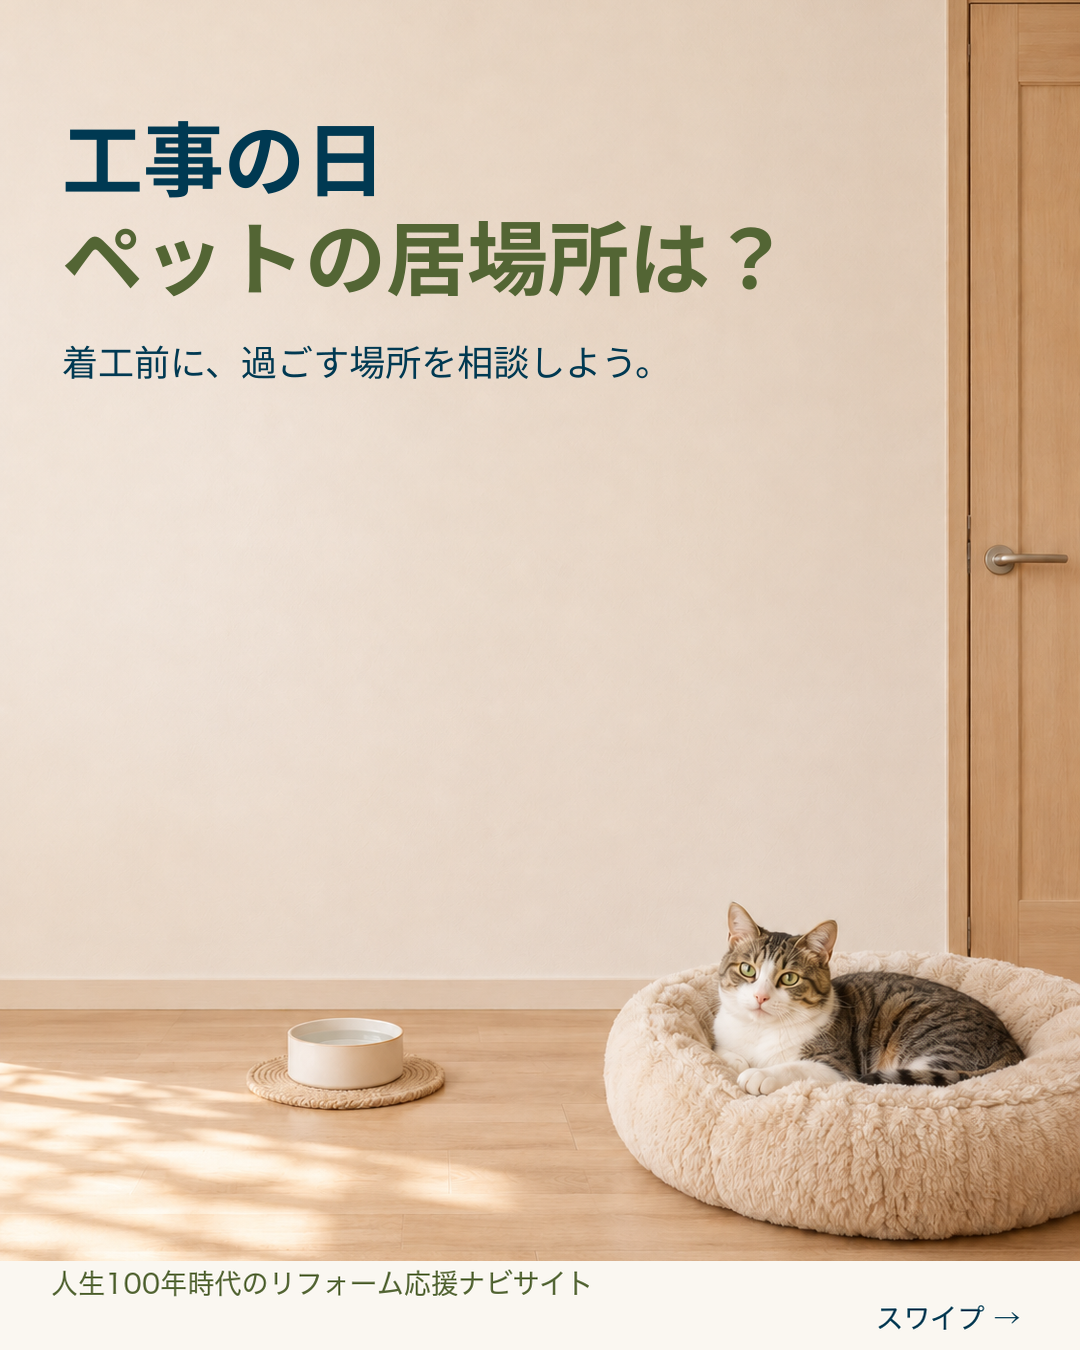
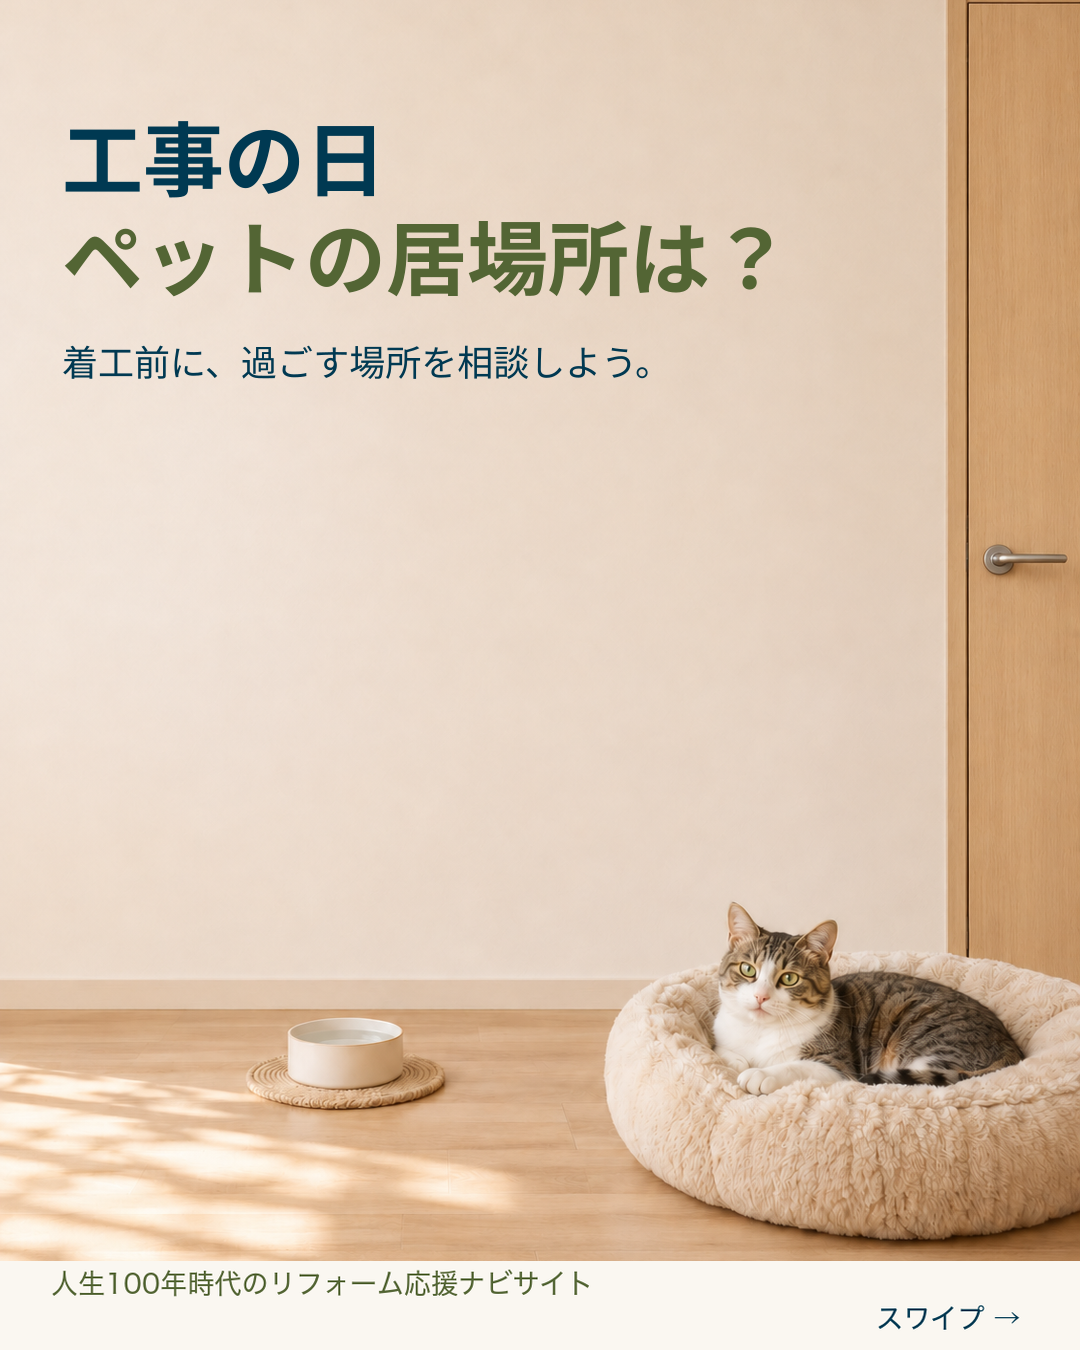
Correct image consistency across eight Instagram slides

Changed region(s): [[0.8861, 0.0, 0.9472, 0.7156]]

diff --git a/legacy/instagram-next15-20261111/index.html b/legacy/instagram-next15-20261111/index.html
@@ -1,7 +1,7 @@
-<!doctype html><html lang="ja"><head><meta charset="utf-8"><meta name="viewport" content="width=device-width,initial-scale=1"><meta name="robots" content="noindex,nofollow"><meta name="color-scheme" content="light"><title>第33〜47回（11月11日作成）｜人生100年時代のリフォーム応援ナビサイト</title><meta name="description" content="次期Instagram投稿案15本・90画像とキャプションを確認するプレビュー。公開日は未定です。"><link rel="icon" href="data:,"><link rel="stylesheet" href="style.css?v=2026-11-11-approved-v3-footer-20261022-r5-composition"></head><body>
+<!doctype html><html lang="ja"><head><meta charset="utf-8"><meta name="viewport" content="width=device-width,initial-scale=1"><meta name="robots" content="noindex,nofollow"><meta name="color-scheme" content="light"><title>第33〜47回（11月11日作成）｜人生100年時代のリフォーム応援ナビサイト</title><meta name="description" content="次期Instagram投稿案15本・90画像とキャプションを確認するプレビュー。公開日は未定です。"><link rel="icon" href="data:,"><link rel="stylesheet" href="style.css?v=2026-11-11-r6-visual-consistency"></head><body>
 <nav class="batchnav" aria-label="確認ページの切り替え"><a href="../index.html">← コラム確認Bへ</a><strong>Instagram 第33〜47回・修正版</strong></nav>
 <main class="profile"><header class="account"><span>r.navi.100</span><span class="quiet">クライアント確認用・修正版</span></header><section class="profilehead"><div class="avatar accountmark" aria-hidden="true">r.navi<br>100</div><div><h1>人生100年時代のリフォーム応援ナビサイト</h1><p class="stats"><span><strong>15</strong> 投稿案</span><span><strong>90</strong> 画像</span><span><strong>10</strong> コラム連動案</span></p></div><p class="intro">暮らしや住まいづくりのヒントを、ご家族で話すきっかけに。<br>第33〜47回（11月11日作成）を、表紙から最後の画像・キャプションまで確認できます。</p></section>
 <section class="batchinfo"><h2>第33〜47回（11月11日作成）</h2><p>前回納品の第32回に続く、第33〜47回です。公開日は未定です。修正済みの画像とキャプションを掲載しています。</p><a href="確認一覧.csv" download="Instagram_第33〜47回_確認一覧.csv">確認一覧を保存（CSV）</a></section>
 <div class="filters" aria-label="投稿案の絞り込み"><button data-filter="all" aria-pressed="true">すべて 15</button><button data-filter="column" aria-pressed="false">コラム連動 10</button><button data-filter="standalone" aria-pressed="false">独立テーマ 5</button></div><p class="gridnote">第33〜47回の順に表示しています。公開日は未定です。画像を選ぶと、1枚ずつ確認できます。</p><section id="grid" class="grid" aria-label="第33〜47回（11月11日作成）"></section><footer class="pagefooter">Instagramへの投稿・予約は行いません。<a href="../index.html">コラム確認Bへ戻る</a></footer></main>
 <dialog id="postdialog" aria-labelledby="posttitle"><header class="dialoghead"><div><p id="postid"></p><h2 id="posttitle"></h2><p id="posttype"></p></div><button id="close" aria-label="閉じる">×</button></header><div class="dialogbody"><section class="carousel" aria-label="投稿画像"><div class="imagewrap"><img id="slideimage" width="1080" height="1350" alt=""></div><div class="pager"><button id="prev" aria-label="前の画像">←</button><span id="pagecount" aria-live="polite"></span><button id="next" aria-label="次の画像">→</button></div><div id="dots" class="dots" aria-label="画像を選ぶ"></div></section><aside class="details"><h3>キャプション</h3><p id="caption" class="caption"></p><div class="actions"><button id="copycaption">キャプションをコピー</button><a id="captiondownload" download>キャプションTXT</a><a id="imagedownload" download>表示中の画像を保存</a><a id="zipdownload" download>全画像とキャプションZIP</a></div><p id="copystatus" class="quiet" role="status"></p><a id="columnlink" class="columnlink" target="_blank" rel="noopener noreferrer" hidden>関連コラムのB確認版を開く ↗</a><p class="smallnote">ZIPには表紙を含む全画像を収録。画像上の中面番号は01 / 04〜04 / 04。表紙と最終ページには番号を付けていません。</p></aside></div></dialog>
-<script src="data.js?v=2026-11-11-approved-v3-footer-20261022-r5-composition"></script><script src="app.js?v=2026-11-11-approved-v3-footer-20261022-r5-composition"></script><script src="zip-download.js?v=2026-11-11-approved-v3-footer-20261022-r5-composition"></script></body></html>
+<script src="data.js?v=2026-11-11-r6-visual-consistency"></script><script src="app.js?v=2026-11-11-r6-visual-consistency"></script><script src="zip-download.js?v=2026-11-11-r6-visual-consistency"></script></body></html>

diff --git a/legacy/instagram-next15-20261111/data.js b/legacy/instagram-next15-20261111/data.js
@@ -374,7 +374,7 @@ window.RNAVI_NEXT15 = [
         "page": 5,
         "display_number": "04 / 04",
         "image": "images/V05-05.png",
[2 lines of base64/hex data omitted]
       },
       {
         "heading": "保存して、購入前の４項目",
@@ -530,7 +530,7 @@ window.RNAVI_NEXT15 = [
         "page": 5,
         "display_number": "04 / 04",
         "image": "images/V07-05.png",
[2 lines of base64/hex data omitted]
       },
       {
         "heading": "保存して、契約前に見比べる",
@@ -568,7 +568,7 @@ window.RNAVI_NEXT15 = [
         "page": 1,
         "display_number": null,
         "image": "images/V08-01.png",
[2 lines of base64/hex data omitted]
       },
       {
         "heading": "明るい窓を背にしていませんか",
@@ -618,7 +618,7 @@ window.RNAVI_NEXT15 = [
         "page": 6,
         "display_number": null,
         "image": "images/V08-06.png",
[2 lines of base64/hex data omitted]
       }
     ],
     "episode_label": "第40回"
@@ -734,7 +734,7 @@ window.RNAVI_NEXT15 = [
         "page": 2,
         "display_number": "01 / 04",
         "image": "images/V10-02.png",
[2 lines of base64/hex data omitted]
       },
       {
         "heading": "開く・流す・押すを試す",
@@ -968,7 +968,7 @@ window.RNAVI_NEXT15 = [
         "page": 2,
         "display_number": "01 / 04",
         "image": "images/V13-02.png",
[2 lines of base64/hex data omitted]
       },
       {
         "heading": "同時に使うものも伝える",
@@ -1114,7 +1114,7 @@ window.RNAVI_NEXT15 = [
         "page": 1,
         "display_number": null,
         "image": "images/V15-01.png",
[2 lines of base64/hex data omitted]
       },
       {
         "heading": "どんな工事で、どこが開く？",
@@ -1164,7 +1164,7 @@ window.RNAVI_NEXT15 = [
         "page": 6,
         "display_number": null,
         "image": "images/V15-06.png",
[2 lines of base64/hex data omitted]
       }
     ],
     "episode_label": "第47回"

diff --git a/legacy/instagram-next15-20261111/app.js b/legacy/instagram-next15-20261111/app.js
@@ -1,4 +1,4 @@
-(()=>{'use strict';const assetVersion='2026-11-11-approved-v3-footer-20261022-r5-composition';const assetUrl=p=>p+(p.includes('?')?'&':'?')+'v='+encodeURIComponent(assetVersion);const posts=window.RNAVI_NEXT15,$=id=>document.getElementById(id),dialog=$('postdialog');let current=null,page=0,opener=null,touchX=null;const el=(tag,cls,text)=>{const n=document.createElement(tag);if(cls)n.className=cls;if(text!==undefined)n.textContent=text;return n;};
+(()=>{'use strict';const assetVersion='2026-11-11-r6-visual-consistency';const assetUrl=p=>p+(p.includes('?')?'&':'?')+'v='+encodeURIComponent(assetVersion);const posts=window.RNAVI_NEXT15,$=id=>document.getElementById(id),dialog=$('postdialog');let current=null,page=0,opener=null,touchX=null;const el=(tag,cls,text)=>{const n=document.createElement(tag);if(cls)n.className=cls;if(text!==undefined)n.textContent=text;return n;};
 posts.forEach(p=>{const b=el('button','tile');b.dataset.id=p.id;b.id=p.proposal_id;b.setAttribute('aria-label',`${p.episode_label}：${p.title}。全${p.pages.length}枚を開く`);const im=el('img');im.src=assetUrl(p.image);im.alt=p.title;im.width=1080;im.height=1350;im.loading='lazy';b.append(im,el('span','proposal',p.episode_label),el('span','count',`${p.pages.length}枚`));b.addEventListener('click',()=>openPost(p,b));$('grid').append(b);});
 document.querySelectorAll('[data-filter]').forEach(b=>b.addEventListener('click',()=>{const f=b.dataset.filter;document.querySelectorAll('[data-filter]').forEach(x=>x.setAttribute('aria-pressed',String(x===b)));[...$('grid').children].forEach((tile,i)=>tile.hidden=f==='column'?!posts[i].column_candidate:f==='standalone'?!!posts[i].column_candidate:false);}));
 function showPage(){const s=current.pages[page];$('slideimage').src=assetUrl(s.image);$('slideimage').alt=`${current.episode_label} ${s.page}/${current.pages.length}：${s.heading}`;$('pagecount').textContent=`${s.page} / ${current.pages.length}${s.page===1?' · 表紙':s.page===current.pages.length?' · 最終ページ':` · 中面 ${s.display_number}`} `;$('prev').disabled=page===0;$('next').disabled=page===current.pages.length-1;$('imagedownload').href=assetUrl(s.image);$('imagedownload').download=current.episode_label+'-'+String(s.page).padStart(2,'0')+'.png';[...$('dots').children].forEach((d,i)=>d.setAttribute('aria-current',String(i===page)));}

diff --git a/legacy/instagram-next15-20261111/zip-download.js b/legacy/instagram-next15-20261111/zip-download.js
@@ -1,4 +1,4 @@
-(()=>{'use strict';const assetVersion='2026-11-11-approved-v3-footer-20261022-r5-composition';const assetUrl=p=>p+(p.includes('?')?'&':'?')+'v='+encodeURIComponent(assetVersion);
+(()=>{'use strict';const assetVersion='2026-11-11-r6-visual-consistency';const assetUrl=p=>p+(p.includes('?')?'&':'?')+'v='+encodeURIComponent(assetVersion);
 const encoder=new TextEncoder();const table=Array.from({length:256},(_,n)=>{let c=n;for(let k=0;k<8;k++)c=c&1?0xedb88320^(c>>>1):c>>>1;return c>>>0;});
 const crc32=bytes=>{let c=0xffffffff;for(const b of bytes)c=table[(c^b)&255]^(c>>>8);return(c^0xffffffff)>>>0;};
 const header=(size,fields)=>{const b=new Uint8Array(size),v=new DataView(b.buffer);for(const [offset,value,width]of fields){if(width===2)v.setUint16(offset,value,true);else v.setUint32(offset,value,true);}return b;};
